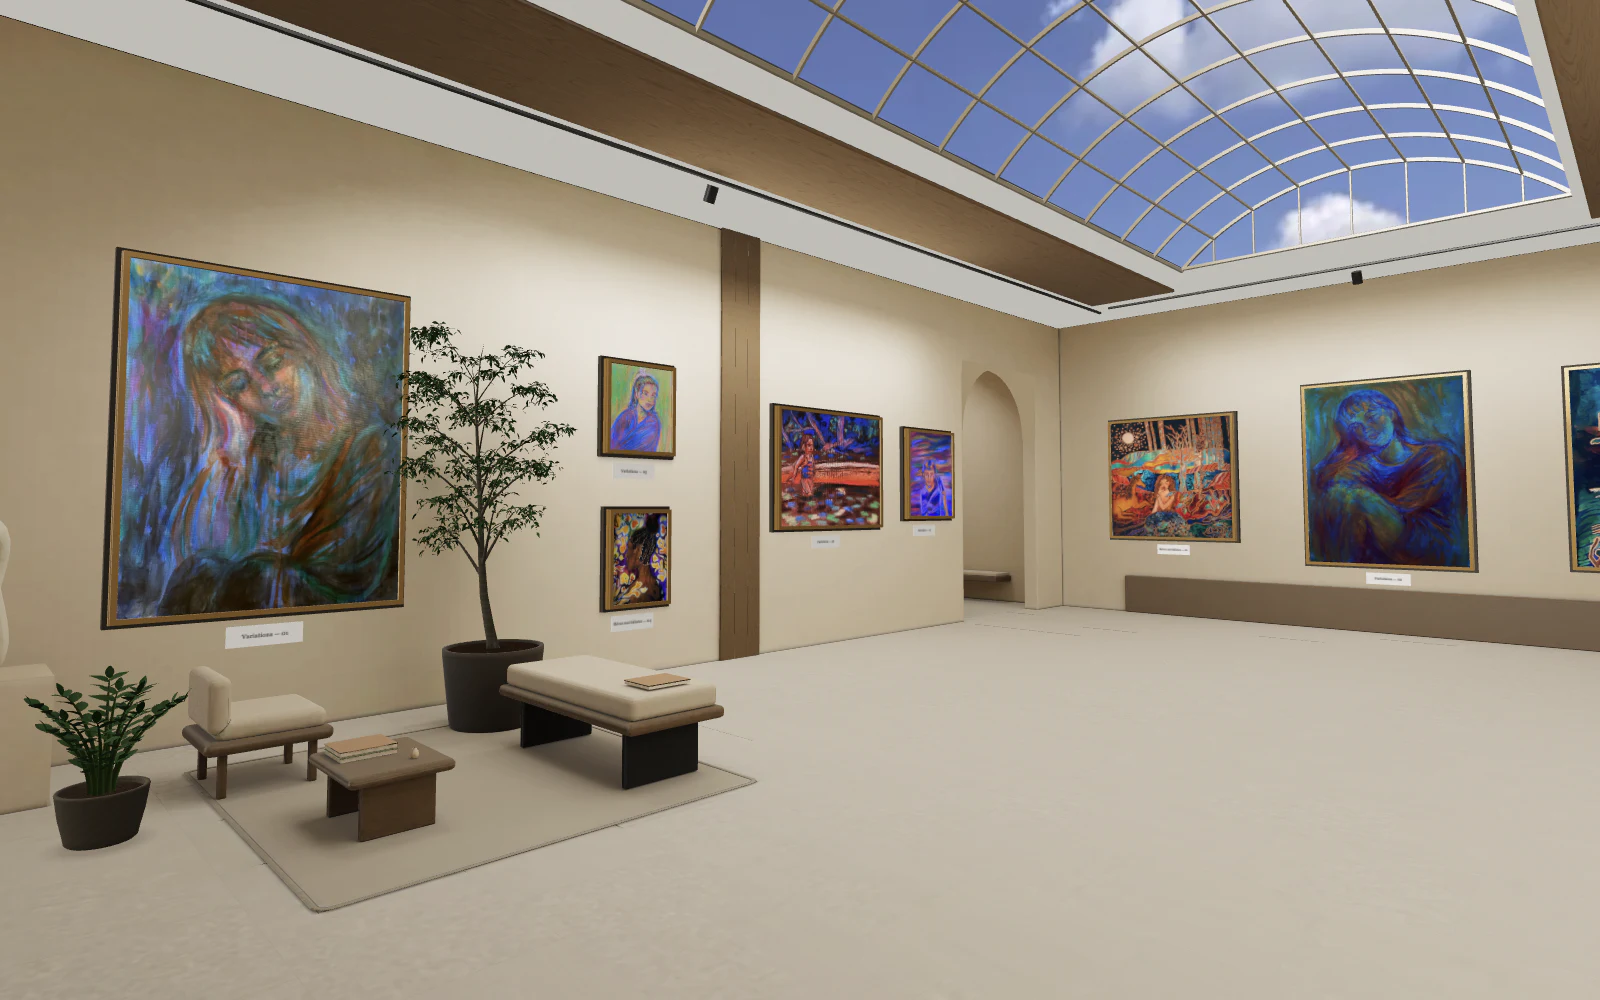
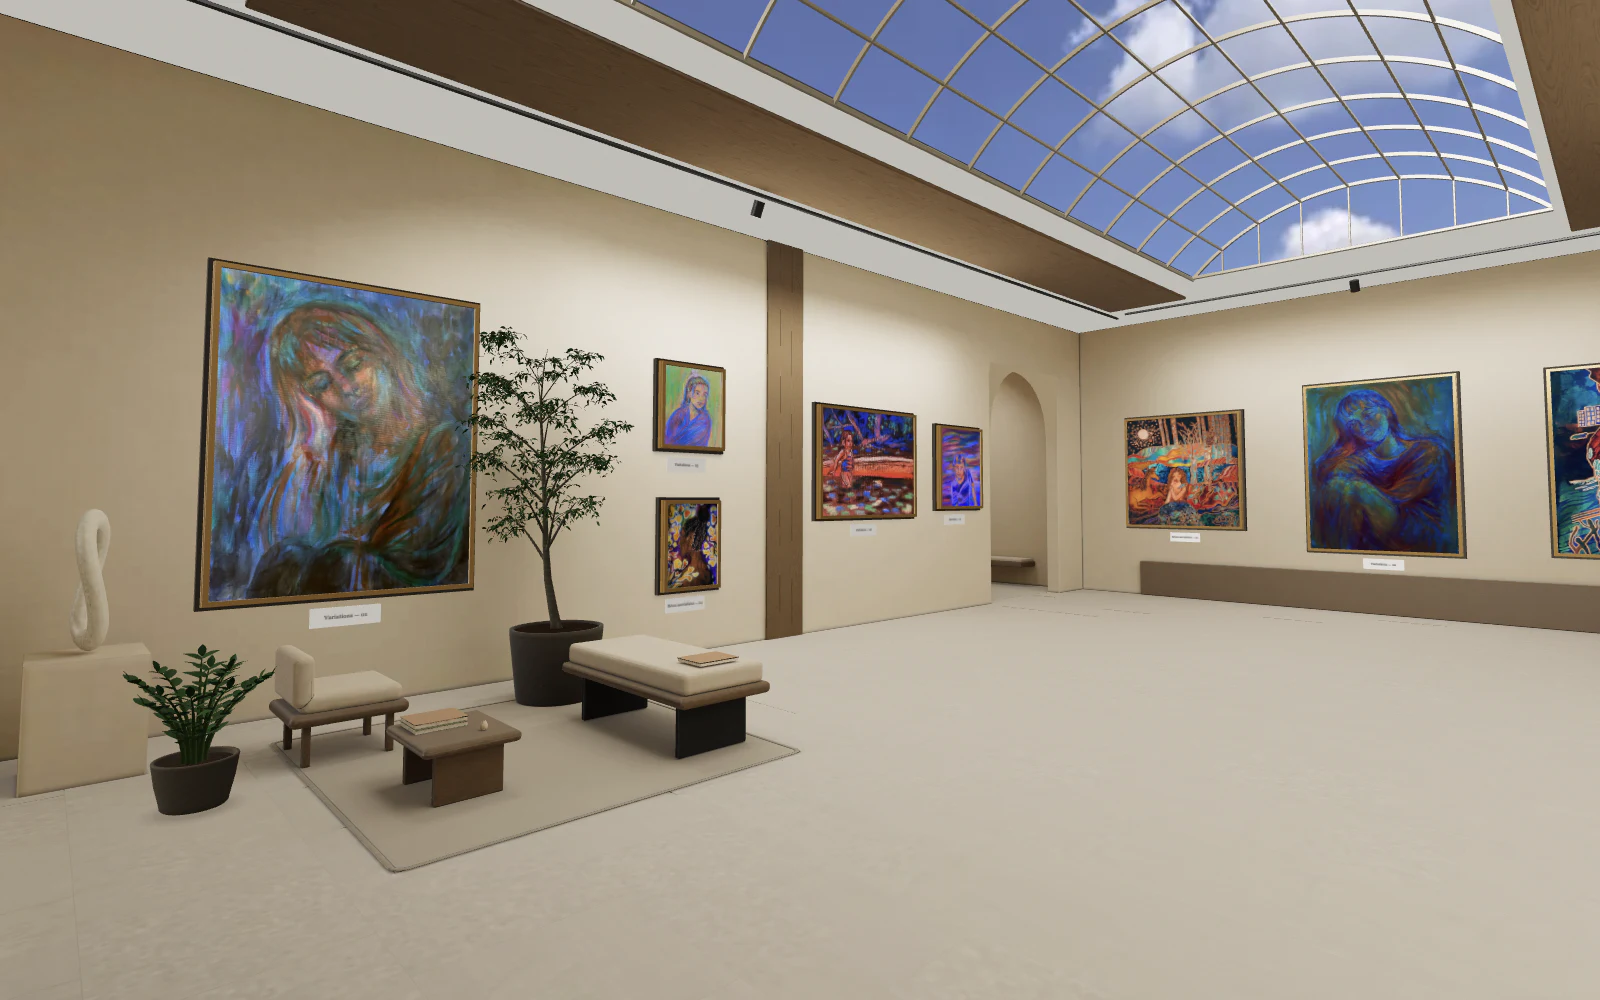
Align loading posters with the rendered camera and speed up journeys

diff --git a/components/museum/CameraDirector.tsx b/components/museum/CameraDirector.tsx
@@ -1,6 +1,11 @@
 "use client";
 import { useEffect, useLayoutEffect, useMemo, useRef, useState } from "react";
-import { addEffect, useFrame, useThree } from "@react-three/fiber";
+import {
+  addAfterEffect,
+  addEffect,
+  useFrame,
+  useThree,
+} from "@react-three/fiber";
 import { CameraControls } from "@react-three/drei";
 import CameraControlsImpl from "camera-controls";
 import { PerspectiveCamera, Vector3 } from "three";
@@ -38,6 +43,7 @@ import {
 import {
   automaticLens,
   automaticTourInsets,
+  openingLensTarget,
 } from "@/lib/museum/automaticFraming";
 import {
   ContinuousPromenade,
@@ -53,6 +59,7 @@ interface Props {
   reducedMotion: boolean;
   onArrive: (id: number) => void;
   onError: () => void;
+  onFirstFrame?: () => void;
   skipTransition?: boolean;
   ambientTour?: boolean;
   roomAutoplay?: boolean;
@@ -77,6 +84,7 @@ export function CameraDirector({
   reducedMotion,
   onArrive,
   onError,
+  onFirstFrame,
   skipTransition,
   ambientTour = false,
   roomAutoplay = false,
@@ -104,6 +112,7 @@ export function CameraDirector({
   const callbacks = useRef({
     onArrive,
     onError,
+    onFirstFrame,
     onTourArtwork,
     onLookResume,
     onLookStateChange,
@@ -111,10 +120,22 @@ export function CameraDirector({
   callbacks.current = {
     onArrive,
     onError,
+    onFirstFrame,
     onTourArtwork,
     onLookResume,
     onLookStateChange,
   };
+  const presented = useRef(false);
+  useEffect(
+    () =>
+      addAfterEffect(() => {
+        // Hide the poster only after the renderer has painted the applied pose.
+        if (presented.current || !rendered.current) return;
+        presented.current = true;
+        callbacks.current.onFirstFrame?.();
+      }),
+    [],
+  );
   const currentRooms = useRef(data.rooms);
   currentRooms.current = data.rooms;
   const manualResume = useRef(false);
@@ -147,6 +168,8 @@ export function CameraDirector({
     dueAt: TOUR_INITIAL_DELAY,
     hasStarted: false,
     readyOnLoop: false,
+    openingLens: false,
+    openingElapsed: 0,
     entryElapsed: null as number | null,
   });
   const wake = useRef<ReturnType<typeof setTimeout> | null>(null);
@@ -602,6 +625,8 @@ export function CameraDirector({
           dueAt: TOUR_INITIAL_DELAY,
           hasStarted: false,
           readyOnLoop: first.current && roomAutoplay,
+          openingLens: first.current && overview,
+          openingElapsed: 0,
           entryElapsed: null,
         };
         tour.current.timeline.update(
@@ -932,14 +957,24 @@ export function CameraDirector({
     }
     // Widen promptly on approach, relax slowly on departure: no sudden zoom
     // when changing the watched work or resuming from its detail view.
+    // Use the same bounded display steps as the walk, never wall-clock stalls.
+    if (state.openingLens) state.openingElapsed += activeDelta;
+    const targetLens = state.openingLens
+      ? openingLensTarget(
+          lens.target,
+          size.width,
+          size.height,
+          state.openingElapsed,
+        )
+      : lens.target;
     const dt = Math.min(Math.max(activeDelta, 0), 0.1);
-    const blend = 1 - Math.exp(-dt * (lens.target.fov > sample.fov ? 4 : 0.35));
-    const nextFov = sample.fov + (lens.target.fov - sample.fov) * blend;
+    const blend = 1 - Math.exp(-dt * (targetLens.fov > sample.fov ? 4 : 0.35));
+    const nextFov = sample.fov + (targetLens.fov - sample.fov) * blend;
     const shiftBlend = 1 - Math.exp(-dt * 1.5);
     const nextX =
-      sample.offsetX + (lens.target.offsetX - sample.offsetX) * shiftBlend;
+      sample.offsetX + (targetLens.offsetX - sample.offsetX) * shiftBlend;
     const nextY =
-      sample.offsetY + (lens.target.offsetY - sample.offsetY) * shiftBlend;
+      sample.offsetY + (targetLens.offsetY - sample.offsetY) * shiftBlend;
     sample.fovVelocity = dt ? (nextFov - sample.fov) / dt : 0;
     sample.offsetVelocityX = dt ? (nextX - sample.offsetX) / dt : 0;
     sample.offsetVelocityY = dt ? (nextY - sample.offsetY) / dt : 0;

diff --git a/tests/automatic-framing.test.ts b/tests/automatic-framing.test.ts
@@ -4,6 +4,7 @@ import type { Artwork } from "../lib/data/types";
 import {
   automaticLens,
   automaticTourInsets,
+  openingLensTarget,
 } from "../lib/museum/automaticFraming";
 import {
   getSlots,
@@ -12,8 +13,60 @@ import {
   FRAME_FRONT_DEPTH,
 } from "../lib/museum/config";
 import { motionFromPose, motionLookTarget } from "../lib/museum/navigation";
+import { ambientWalkPosterPose, createAmbientWalk } from "../lib/museum/tour";
 
 describe("Automatic visit framing", () => {
+  it("keeps the opening projection at handoff and moves it less than a pixel in the first second", () => {
+    const walk = createAmbientWalk("room-1", ["room-1", "room-2"], []);
+    for (const [width, height] of [
+      [1280, 720],
+      [1600, 1000],
+      [430, 932],
+    ]) {
+      const pose = ambientWalkPosterPose(walk, width, height);
+      const sample = motionFromPose(pose);
+      const target = { fov: 78, offsetX: 152, offsetY: 65 };
+      const cameraFor = (lens: typeof target) => {
+        const camera = new PerspectiveCamera(
+          lens.fov,
+          width / height,
+          0.1,
+          260,
+        );
+        camera.position.fromArray(pose.position);
+        camera.lookAt(new Vector3(...pose.target));
+        camera.setViewOffset(
+          width,
+          height,
+          lens.offsetX,
+          lens.offsetY,
+          width,
+          height,
+        );
+        camera.updateMatrixWorld();
+        return camera;
+      };
+      const initial = cameraFor(sample);
+      const landmark = initial.localToWorld(new Vector3(1, 1, -8));
+      const project = (lens: typeof target) => {
+        const point = landmark.clone().project(cameraFor(lens));
+        return new Vector3(
+          ((point.x + 1) * width) / 2,
+          ((1 - point.y) * height) / 2,
+          0,
+        );
+      };
+      const before = project(sample);
+      expect(
+        project(openingLensTarget(target, width, height, 0)).distanceTo(before),
+      ).toBeLessThan(0.00001);
+      expect(
+        project(openingLensTarget(target, width, height, 1)).distanceTo(before),
+      ).toBeLessThan(1);
+      expect(openingLensTarget(target, width, height, 18)).toEqual(target);
+      expect(openingLensTarget(target, width, height, 30)).toEqual(target);
+    }
+  });
   it("keeps the lens and actual painting projection stable while its preview mounts, hides and changes", () => {
     const slot = getSlots()[0];
     const artwork = {

diff --git a/lib/museum/automaticFraming.ts b/lib/museum/automaticFraming.ts
@@ -7,7 +7,7 @@ import {
   FRAME_FRONT_DEPTH,
 } from "./config";
 import { motionLookTarget, type CameraMotionSample } from "./navigation";
-import { overviewFov } from "./tour";
+import { overviewFov, overviewLensOffset } from "./tour";
 import { hangingGroups } from "./hangingGroups";
 
 export interface ViewInsets {
@@ -15,6 +15,27 @@ export interface ViewInsets {
   bottom: number;
   left: number;
   right: number;
+}
+
+/** Keep the captured lens at departure, then settle into walking reservations.
+ * The zero starting velocity/acceleration avoids a pan or zoom as the poster fades.
+ * This applies only to the initial visit, never an artwork focus or mouse release.
+ */
+export function openingLensTarget(
+  target: { fov: number; offsetX: number; offsetY: number },
+  width: number,
+  height: number,
+  elapsed: number,
+) {
+  const u = Math.max(0, Math.min(1, elapsed / 18));
+  const blend = u * u * u * (10 + u * (-15 + 6 * u));
+  const offset = overviewLensOffset(width, height);
+  const fov = overviewFov(width, height);
+  return {
+    fov: fov + (target.fov - fov) * blend,
+    offsetX: offset.x + (target.offsetX - offset.x) * blend,
+    offsetY: offset.y + (target.offsetY - offset.y) * blend,
+  };
 }
 
 /** Reserve the automatic artwork card before it mounts. Its arrival, hover or

diff --git a/components/museum/MuseumScene.tsx b/components/museum/MuseumScene.tsx
@@ -386,6 +386,8 @@ export function MuseumScene(props: MuseumProps) {
   const [mounted, setMounted] = useState<string[]>([targetRoom]);
   const [ready, setReady] = useState<Set<string>>(() => new Set());
   const [failed, setFailed] = useState<Set<string>>(() => new Set());
+  const [cameraPresented, setCameraPresented] = useState(false);
+  const onFirstCameraFrame = useCallback(() => setCameraPresented(true), []);
   const [committed, setCommitted] = useState<{
     destination: Destination;
     navigationId: number;
@@ -459,6 +461,7 @@ export function MuseumScene(props: MuseumProps) {
     scene.userData.artworkCount = data.artworks.length;
     if (
       routeReady &&
+      cameraPresented &&
       (!props.captureAllRooms || allReady) &&
       !announced.current
     ) {
@@ -474,6 +477,7 @@ export function MuseumScene(props: MuseumProps) {
     readyKey,
     allReady,
     routeReady,
+    cameraPresented,
     targetRoom,
     currentRoom,
     props.captureAllRooms,
@@ -564,6 +568,7 @@ export function MuseumScene(props: MuseumProps) {
           {...props}
           {...committed}
           ambientTour={props.ambientTour && routeReady}
+          onFirstFrame={onFirstCameraFrame}
           onArrive={(id) => callbacks.current.onArrive(id)}
         />
       )}

diff --git a/tests/navigation-pace.test.ts b/tests/navigation-pace.test.ts
@@ -33,7 +33,8 @@ const start = motionFromPose(
   ),
 );
 
-it("makes artwork and room journeys 25% faster while preserving their safe path", () => {
+it("makes artwork and room journeys another 15% faster while preserving their safe path", () => {
+  expect(pace).toBeCloseTo(1.25 * 1.15, 8);
   const obstacles = navigationObstaclesForRooms(data.rooms);
   const targets = [
     ...data.artworks
@@ -48,8 +49,12 @@ it("makes artwork and room journeys 25% faster while preserving their safe path"
   ];
   for (const target of targets) {
     const normal = planCameraMotion(start, target, data.rooms);
+    const previous = planCameraMotion(start, target, data.rooms, {
+      pace: 1.25,
+    });
     const faster = planCameraMotion(start, target, data.rooms, { pace });
     expect(faster.duration * pace).toBeCloseTo(normal.duration, 5);
+    expect(faster.duration * 1.15).toBeCloseTo(previous.duration, 5);
     expect(faster.path).toEqual(normal.path);
     for (let i = 0; i <= 120; i++) {
       const sample = sampleCameraMotion(faster, (faster.duration * i) / 120);

diff --git a/lib/museum/arrival.ts b/lib/museum/arrival.ts
@@ -33,7 +33,7 @@ export function arrivalFingerprint(
   return createHash("sha256")
     .update(
       JSON.stringify({
-        sceneVersion: "contemporary-vaulted-v23-opening-64-68-cover-lens",
+        sceneVersion: "contemporary-vaulted-v24-presented-opening-captures",
         // Changing the opening lens automatically invalidates old captures.
         openingViews: [
           [1600, 1000],

diff --git a/lib/museum/navigation.ts b/lib/museum/navigation.ts
@@ -18,7 +18,7 @@ import {
 } from "./config";
 export const CAMERA_RADIUS = 0.32;
 export const CAMERA_FOV = 60;
-export const NAVIGATION_SPEED_MULTIPLIER = 1.25;
+export const NAVIGATION_SPEED_MULTIPLIER = 1.25 * 1.15;
 export const MAX_CAMERA_SPEED = 3.2;
 export const MAX_CAMERA_ANGULAR_SPEED = (40 * Math.PI) / 180;
 export const CAMERA_EYE_HEIGHT = 2.05;

diff --git a/docs/QA_ARRIVEE_VITESSE_2026-10-07.md b/docs/QA_ARRIVEE_VITESSE_2026-10-07.md
@@ -1,0 +1,31 @@
+# Arrivée et vitesse — correction du 7 octobre 2026
+
+Les deux aperçus horizontaux avec œuvres avaient conservé une projection proche de 60°, alors que la caméra réelle démarre à 64° au format 1600 × 1000. Le manifeste indiquait la nouvelle lentille, mais les pixels des fichiers ne la reproduisaient pas. Cela donnait l’impression de reculer à la disparition de l’image de chargement.
+
+## Correction
+
+- Huit captures du renderer réel ont été refaites dans le navigateur Codex privé : deux salles, horizontal/vertical, avec et sans œuvres. Conservation des pixels à 1600 × 1000 et 430 × 932, sans transformation géométrique avant conversion WebP. Les captures déjà correctes peuvent rester identiques.
+- Les coins de cadres horizontaux sont comparés à la projection attendue : Variations 01 autour de (208,257), Métamorphoses 01 autour de (692,433) au format de référence. Les portraits sont conservés depuis les captures natives complètes ; une capture CDP recadrée a été écartée.
[1 lines of base64/hex data omitted]
+- Le fondu du poster attend désormais que la pose de la caméra ait effectivement été peinte par le renderer. Il n’expose plus la caméra de configuration pendant le montage du contrôleur.
+- Le cadrage automatique démarre depuis la lentille du poster et rejoint progressivement les réservations de la promenade. Son horloge avance avec les mêmes pas d’affichage plafonnés que la caméra ; une interruption du rendu ne provoque pas de rattrapage brutal. Cette introduction concerne seulement l’ouverture initiale.
+- L’allure des sélections d’œuvre et des changements de salle passe de ×1,25 à ×1,4375, soit 15 % supplémentaires. Vitesse d’arrivée dans la promenade, inertie, chemins et recadrages au redimensionnement restent conservés.
+
+## Vérifications locales exécutées
+
+- **218 tests réussis dans 11 fichiers** : vitesse, obstacles, annulations, passage entre salles, promenade, cadrage automatique et publication/cache/téléversement des aperçus. Compilation de production et TypeScript réussis. `git diff --check` réussi.
+- Test du départ de lentille : même projection au passage du poster, déplacement d’un repère inférieur à un pixel pendant la première seconde, puis convergence au cadrage de promenade.
+- Comparaison des pixels des images réellement servies par l’API avec un premier Canvas stationnaire indépendant, à deux ratios différents des captures de référence :
+
+| Salle | Vue testée | Différence moyenne par canal / 255 | Pixels avec différence > 25 |
+| --- | --- | ---: | ---: |
+| 1 | 1280 × 720 | 2,56 | 0,29 % |
+| 2 | 1280 × 720 | 1,79 | 0,21 % |
+| 1 | 390 × 844 | 2,70 | 1,21 % |
+| 2 | 390 × 844 | 2,07 | 0,86 % |
+
+Les différences résiduelles de détail, d’anticrénelage et de compression n’introduisent pas de changement de cadrage. Les quatre réponses sont HTTP 200 et leurs octets correspondent aux fichiers inclus dans le déploiement. L’API de disponibilité annonce `ready: true` pour la nouvelle empreinte.
+
+Parcours normal, sans réduction du mouvement : chargement avec le nouveau poster, sélection de Variations 01, trajet terminé en 2,729 s depuis la promenade en cours, tableau centré et fiche sur sa droite. Changement de salle terminé en 4,444 s depuis ce focus, puis reprise de marche en salle 2. La fenêtre Contact garde les barres accessibles et la promenade active. Ces durées décrivent les trajets observés ; le rapport exact d’accélération est contrôlé par les tests depuis les mêmes poses de départ.
+
+Captures et mesures : `artifacts/opening-2026-10-07/`, exclues du dépôt. Essais sur une copie locale jetable des 26 œuvres publiques, sans envoi d’email ni modification du catalogue de production. Le viewport téléphone ne remplace pas un essai sur appareil physique. Aucun gain de FPS ou de temps réseau n’est revendiqué.
